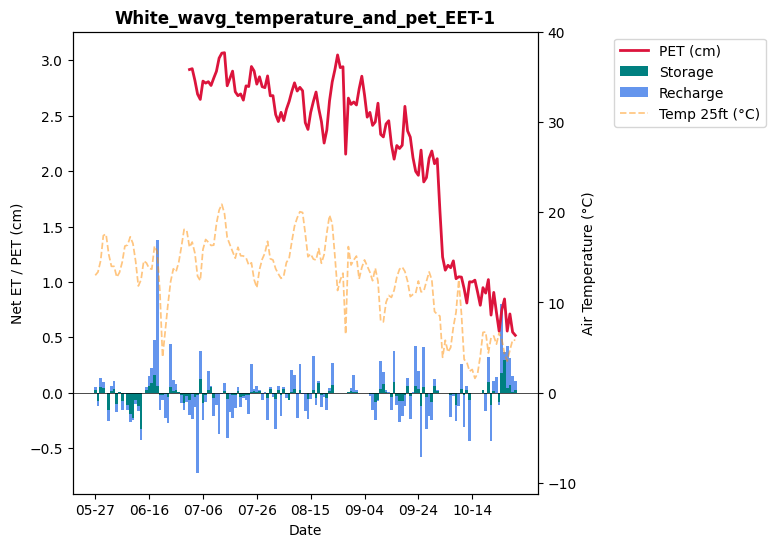
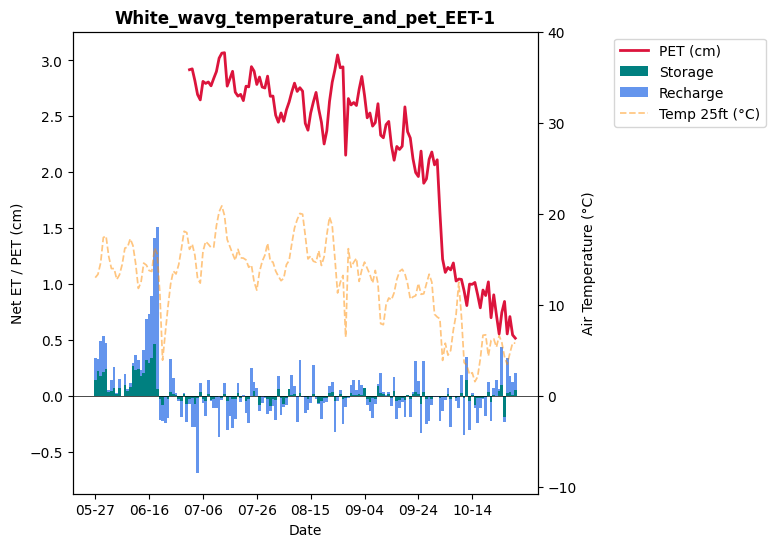
Fixed the Storage equation , functionalised storage and recharge, and replotted

diff --git a/scripts/ET/daily_ET_estimate.py b/scripts/ET/daily_ET_estimate.py
@@ -224,11 +224,28 @@ def get_daily_temperature(weather_subdaily_filepath: str) -> pd.DataFrame:
     # 5. Rename the Celsius column for clarity
     daily_weather = daily_weather.rename(columns={'air-temp-25-ft-avg-degc': 'temp_25ft_C'})
     
-    # 6. Convert Celsius to Fahrenheit
-    daily_weather['temp_25ft_F'] = (daily_weather['temp_25ft_C'] * 9/5) + 32
-    
     # Return the dataframe with the new Fahrenheit column included
-    return daily_weather[['year', 'clean_date', 'temp_25ft_C', 'temp_25ft_F']]
+    return daily_weather[['year', 'clean_date', 'temp_25ft_C']]
+
+def calculate_storage_recharge(df: pd.DataFrame) -> pd.DataFrame:
+    """
+    Calculate storage and recharge terms for ET calculations.
+
+    Parameters:
+    df: daily groundwater dataframe with gw levels at key times
+
+    Returns:
+    DataFrame with additional columns for storage and recharge
+    """
+    df = df.copy()
+    
+    # Calculate R, overnight recharge rate in cm/day
+    df["R_cm"] = 24.0 * (df["gw_00"] - df["gw_04"]) / 4.0
+    
+    # Calculate s, daily storage change (cm)
+    df["S_cm"] = df["gw_24"] - df["gw_00"] 
+    
+    return df
 
 def estimate_ET_White_constant_Sy(daily_df) -> pd.DataFrame:
     """
@@ -243,11 +260,7 @@ def estimate_ET_White_constant_Sy(daily_df) -> pd.DataFrame:
     
     df = daily_df.copy()
     
-    # Calculate R, overnight recharge rate in cm/day
-    df["R_cm"] = 24.0 * (df["gw_00"] - df["gw_04"]) / 4.0
-    
-    # Calculate s, daily storage change (cm)
-    df["S_cm"] = df["gw_00"] - df["gw_24"]
+    df = calculate_storage_recharge(df)
     
     # Set constants for this method
     df["Sy_star"] = SY_STAR
@@ -289,10 +302,7 @@ def estimate_ET_White_wavg_Sy(daily_df: pd.DataFrame, sy_df: pd.DataFrame,) -> p
     df = daily_df.copy()
 
     #   ---- ET CALCULATIONS ----
-    # Calculate R, overnight recharge rate in cm/day
-    df["R_cm"] = 24.0 * (df["gw_00"] - df["gw_04"]) / 4.0
-    # Calculate s, daily storage change (cm)
-    df["S_cm"] = df["gw_00"] - df["gw_24"]
+    df = calculate_storage_recharge(df)
     # Set constants for this method
     df["method_id"] = METHOD_ID
 
@@ -304,8 +314,7 @@ def estimate_ET_White_wavg_Sy(daily_df: pd.DataFrame, sy_df: pd.DataFrame,) -> p
 
     # Calculate daily ET
     df["ET_gw_cm"] = df["Sy_star"] * (df["R_cm"] + df["S_cm"])
-    df['S_cm_proportion'] = df['Sy_star']*df['S_cm'] 
-    df['R_cm_proportion'] = df['Sy_star']*df['R_cm']
+
     return df[
         [
             "date",
@@ -316,9 +325,7 @@ def estimate_ET_White_wavg_Sy(daily_df: pd.DataFrame, sy_df: pd.DataFrame,) -> p
             "R_cm",
             "S_cm",
             "Sy_star",
-            "method_id",
-            "S_cm_proportion",
-            "R_cm_proportion"
+            "method_id"
         ]
     ].dropna()
 
@@ -368,10 +375,12 @@ def filter_ET_by_precip(et_df: pd.DataFrame, precip_df: pd.DataFrame, threshold_
     
     if not dropped_records.empty:
         print(f"\n--- Dropping {len(dropped_records)} ET records due to precip >= {threshold_mm} mm + {recovery_days} recovery days ---")
-        dates = dropped_records["date"].dt.strftime("%Y-%m-%d").tolist()
-        print(f"Zeroing records for {len(dates)} days -> {dates}")
-            
-        print("--------------------------------------------------------------------------------------------------\n")
+        
+        # Use .unique() before .tolist() to get only the unique dates
+        dates = dropped_records["date"].dt.strftime("%Y-%m-%d").unique().tolist()
+        
+        print(f"Zeroing records for {len(dates)} days -> {dates} \n"
+        "--------------------------------------------------------------------------------------------------\n")
     else:
         print(f"\n--- No ET records dropped due to precipitation (threshold = {threshold_mm} mm) ---\n")
     
@@ -433,7 +442,7 @@ def filter_ET_by_well_depth(et_df: pd.DataFrame, gw_df: pd.DataFrame, well_df: p
     filtered_et.loc[filtered_et["is_dry"], ["R_cm_proportion", "S_cm_proportion","ET_gw_cm"]] = 0.0
     
     # Drop the temporary column
-    filtered_et = filtered_et.drop(columns=["is_dry"])
+    filtered_et = filtered_et.drop(columns=["is_dry"]) 
 
     return filtered_et
 
@@ -591,7 +600,7 @@ def plot_ET_line(
             plt.show()
 
 def plot_Storage_Recharge_bar(ET_df, method_id, year, save_dir=None):
-    index = ['method_id','S_cm_proportion','R_cm_proportion','year','well_id','date']
+    index = ['method_id','S_cm','R_cm','year','well_id','date']
     df = ET_df[index]
     filtered_df = df[(df['year'] == year) & (df['method_id'] == method_id)]
 
@@ -637,6 +646,9 @@ def plot_ET_prop_bar(ET_df: pd.DataFrame, PET_df: pd.DataFrame, weather_df: pd.D
     # 1. Filter down to the specific year and method safely
     ET_df = ET_df[(ET_df['year'] == year) & (ET_df['method_id'] == method_id)].copy()
     ET_df['clean_date'] = pd.to_datetime(ET_df['date']).dt.strftime('%m-%d')
+
+    ET_df['S_cm_proportion'] = ET_df['Sy_star']*ET_df['S_cm'] 
+    ET_df['R_cm_proportion'] = ET_df['Sy_star']*ET_df['R_cm']
     
     PET_df = PET_df.copy()
     PET_df['clean_date'] = pd.to_datetime(PET_df['Date']).dt.strftime('%m-%d')
